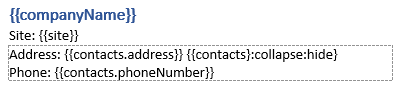
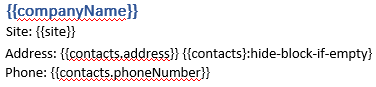
added hide-block-if-empty to Conditionally hide blocks in DOCX templates

diff --git a/source/document-generation/docx/conditionally-hide-blocks.rst b/source/document-generation/docx/conditionally-hide-blocks.rst
@@ -1,7 +1,7 @@
 Conditionally hide blocks in DOCX templates
 ===========================================
 
-You can use `collapse formatter <../common-docx-xlsx/formatters.html#collapse>`_ to hide parts of a document if some value or collection of values is null or empty.
+You can use `hide-block-if-empty formatter <../common-docx-xlsx/formatters.html#hhide-block-if-empty>`_ to hide parts of a document if some value or collection of values is null, empty or empty array.
 
 The formatter checks if a value for current tag is empty, then finds closest collapsible block and hides it:
 
@@ -21,7 +21,7 @@ Here we will learn how it works:
 Hide table rows
 ---------------
 
-Let us assume we have a collection of employees. We want to render a table with information about them, but we want to hide employees without employment date (:code:`hideDate`).
+Let us assume we have a collection of employees. We want to render a table with information about them, but we want to hide employees without employment date (:code:`hireDate`).
 
 This is JSON representation of employees data:
 
@@ -49,7 +49,7 @@ We will use the template like this:
 .. image:: ../../_static/img/document-generation/hide-table-row-template.png
     :alt: hide table row template
 
-As you can see, we added this string to the template row: :code:`{{employees.hireDate}:collapse:hide}`. The :code:`collapse` formatter checks if hire date is empty and hides table row that contains this tag. The :code:`hide` formatter hides the value of the tag if it is not empty.
+As you can see, we added this string to the template row: :code:`{{employees.hireDate}:hide-block-if-empty}`. The :code:`hide-block-if-empty` formatter checks if hire date is empty and hides table row that contains this tag. The :code:`hide` formatter hides the value of the tag if it is not empty.
 
 The result table will look like this:
 
@@ -69,7 +69,7 @@ Our template will look like this:
 .. image:: ../../_static/img/document-generation/hide-bullet-list-item-template.png
     :alt: hide bullet list template
 
-As you can see, we added this string to the bullet list item template: :code:`{{employees.hireDate}:collapse:hide}`. The :code:`collapse` formatter works the same way as in `the example for table rows <#hide-table-rows>`_ above.
+As you can see, we added this string to the bullet list item template: :code:`{{employees.hireDate}:hide-block-if-empty}`. The :code:`hide-block-if-empty` formatter works the same way as in `the example for table rows <#hide-table-rows>`_ above.
 
 The result table will look like this:
 
@@ -98,7 +98,7 @@ We want to display company name, site and contacts and hide contacts if they are
 .. image:: ../../_static/img/document-generation/hide-arbitrary-block-template.png
     :alt: hide arbitrary block template
 
-As you can see, we added this string to the template for contact information: :code:`{{contacts}:collapse:hide}`. The :code:`collapse` formatter works the same way as in `the example for table rows <#hide-table-rows>`_ above.
+As you can see, we added this string to the template for contact information: :code:`{{contacts}:hide-block-if-empty}`. The :code:`hide-block-if-empty` formatter works the same way as in `the example for table rows <#hide-table-rows>`_ above.
 
 The result will look like this:
 
